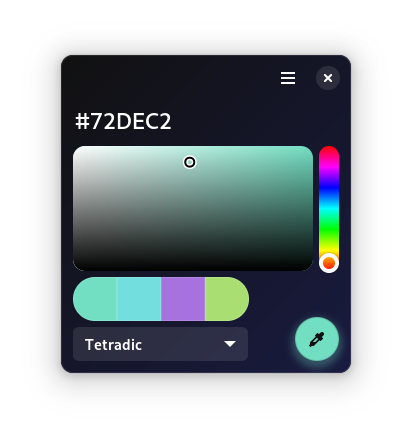
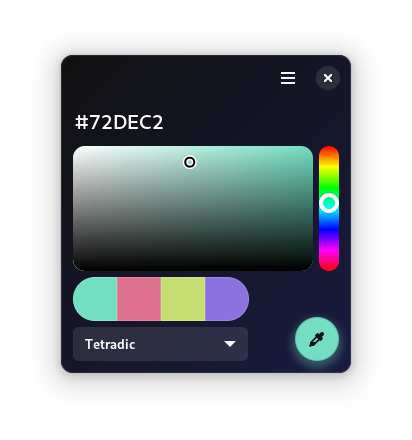
1.2.0 - Fix hue slider

diff --git a/data/style.css b/data/style.css
@@ -14,7 +14,7 @@
 }
 
 .clr-hue trough {
-    background: linear-gradient(0deg,
+    background: linear-gradient(180deg,
         rgba(255,0,0,1) 0%,
         rgba(255,255,0,1) 16.66%,
         rgba(0,255,0,1) 33.33%,
